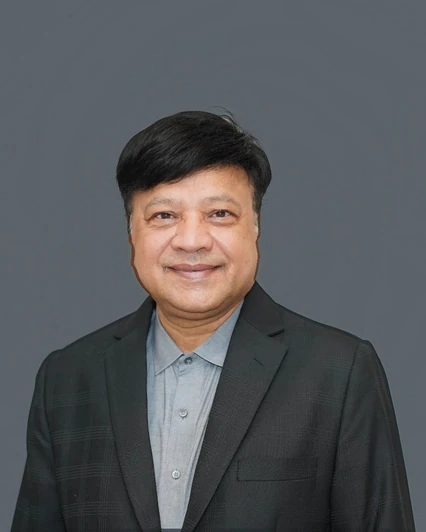
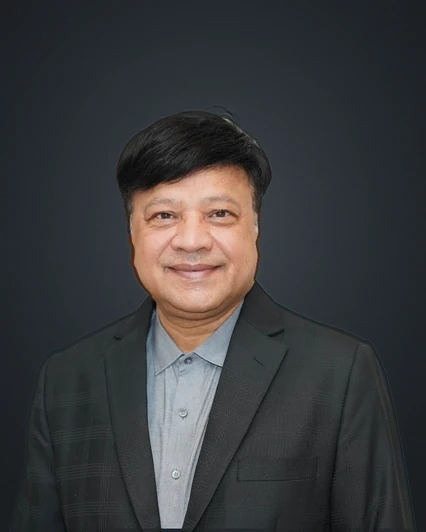
Dark studio backdrop on the About us portrait
A deep charcoal that lifts to a soft pool of light behind his head and
falls off to the corners, which is how a real dark studio portrait is
lit. Built on the same matte, so his face and the edges are the original
pixels at full size. URLs bumped to v=4.

diff --git a/index.html b/index.html
@@ -215,7 +215,7 @@
     <p class="label">About us</p>
 
     <figure class="mdphoto">
-      <picture><source srcset="assets/img/director-tall-426.webp?v=3 426w, assets/img/director-tall-640.webp?v=3 640w, assets/img/director-tall.webp?v=3 852w" type="image/webp" sizes="(max-width:840px) 92vw, 34vw"><img src="assets/img/director-tall.jpg?v=3" alt="Rajendra Agarwal, Managing Director of Raghupati Wires India Private Limited (Rama Winding Wires)" width="852" height="1065" loading="lazy" decoding="async"></picture>
+      <picture><source srcset="assets/img/director-tall-426.webp?v=4 426w, assets/img/director-tall-640.webp?v=4 640w, assets/img/director-tall.webp?v=4 852w" type="image/webp" sizes="(max-width:840px) 92vw, 34vw"><img src="assets/img/director-tall.jpg?v=4" alt="Rajendra Agarwal, Managing Director of Raghupati Wires India Private Limited (Rama Winding Wires)" width="852" height="1065" loading="lazy" decoding="async"></picture>
     </figure>
 
     <div class="about-side">
